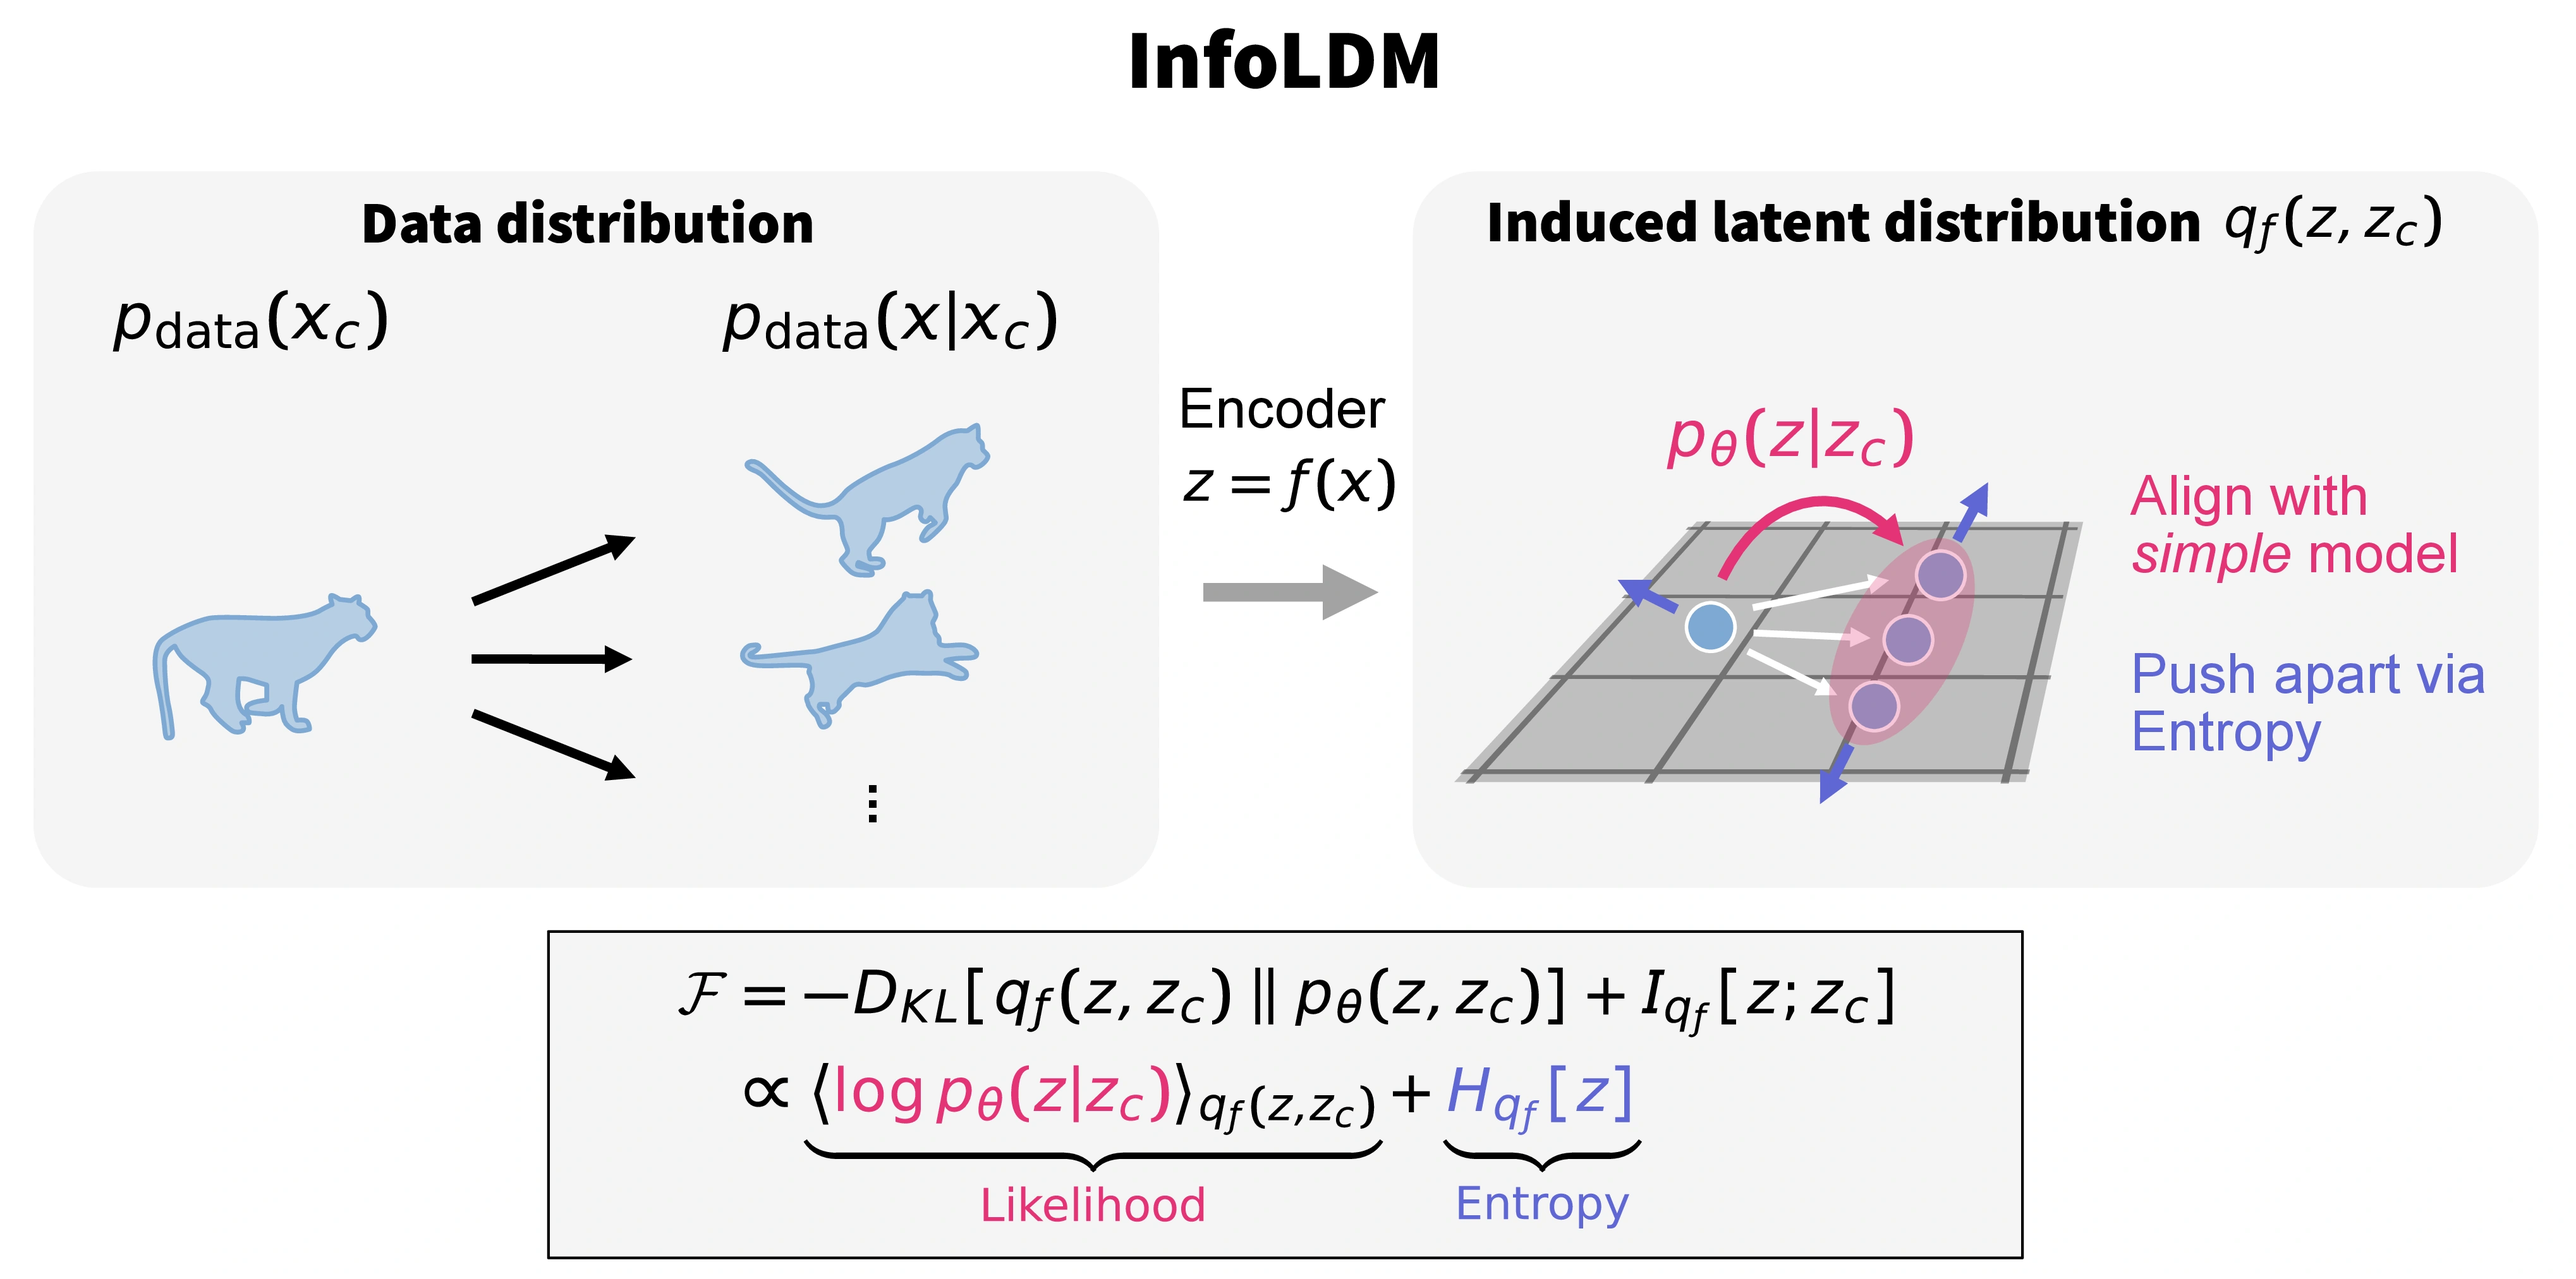
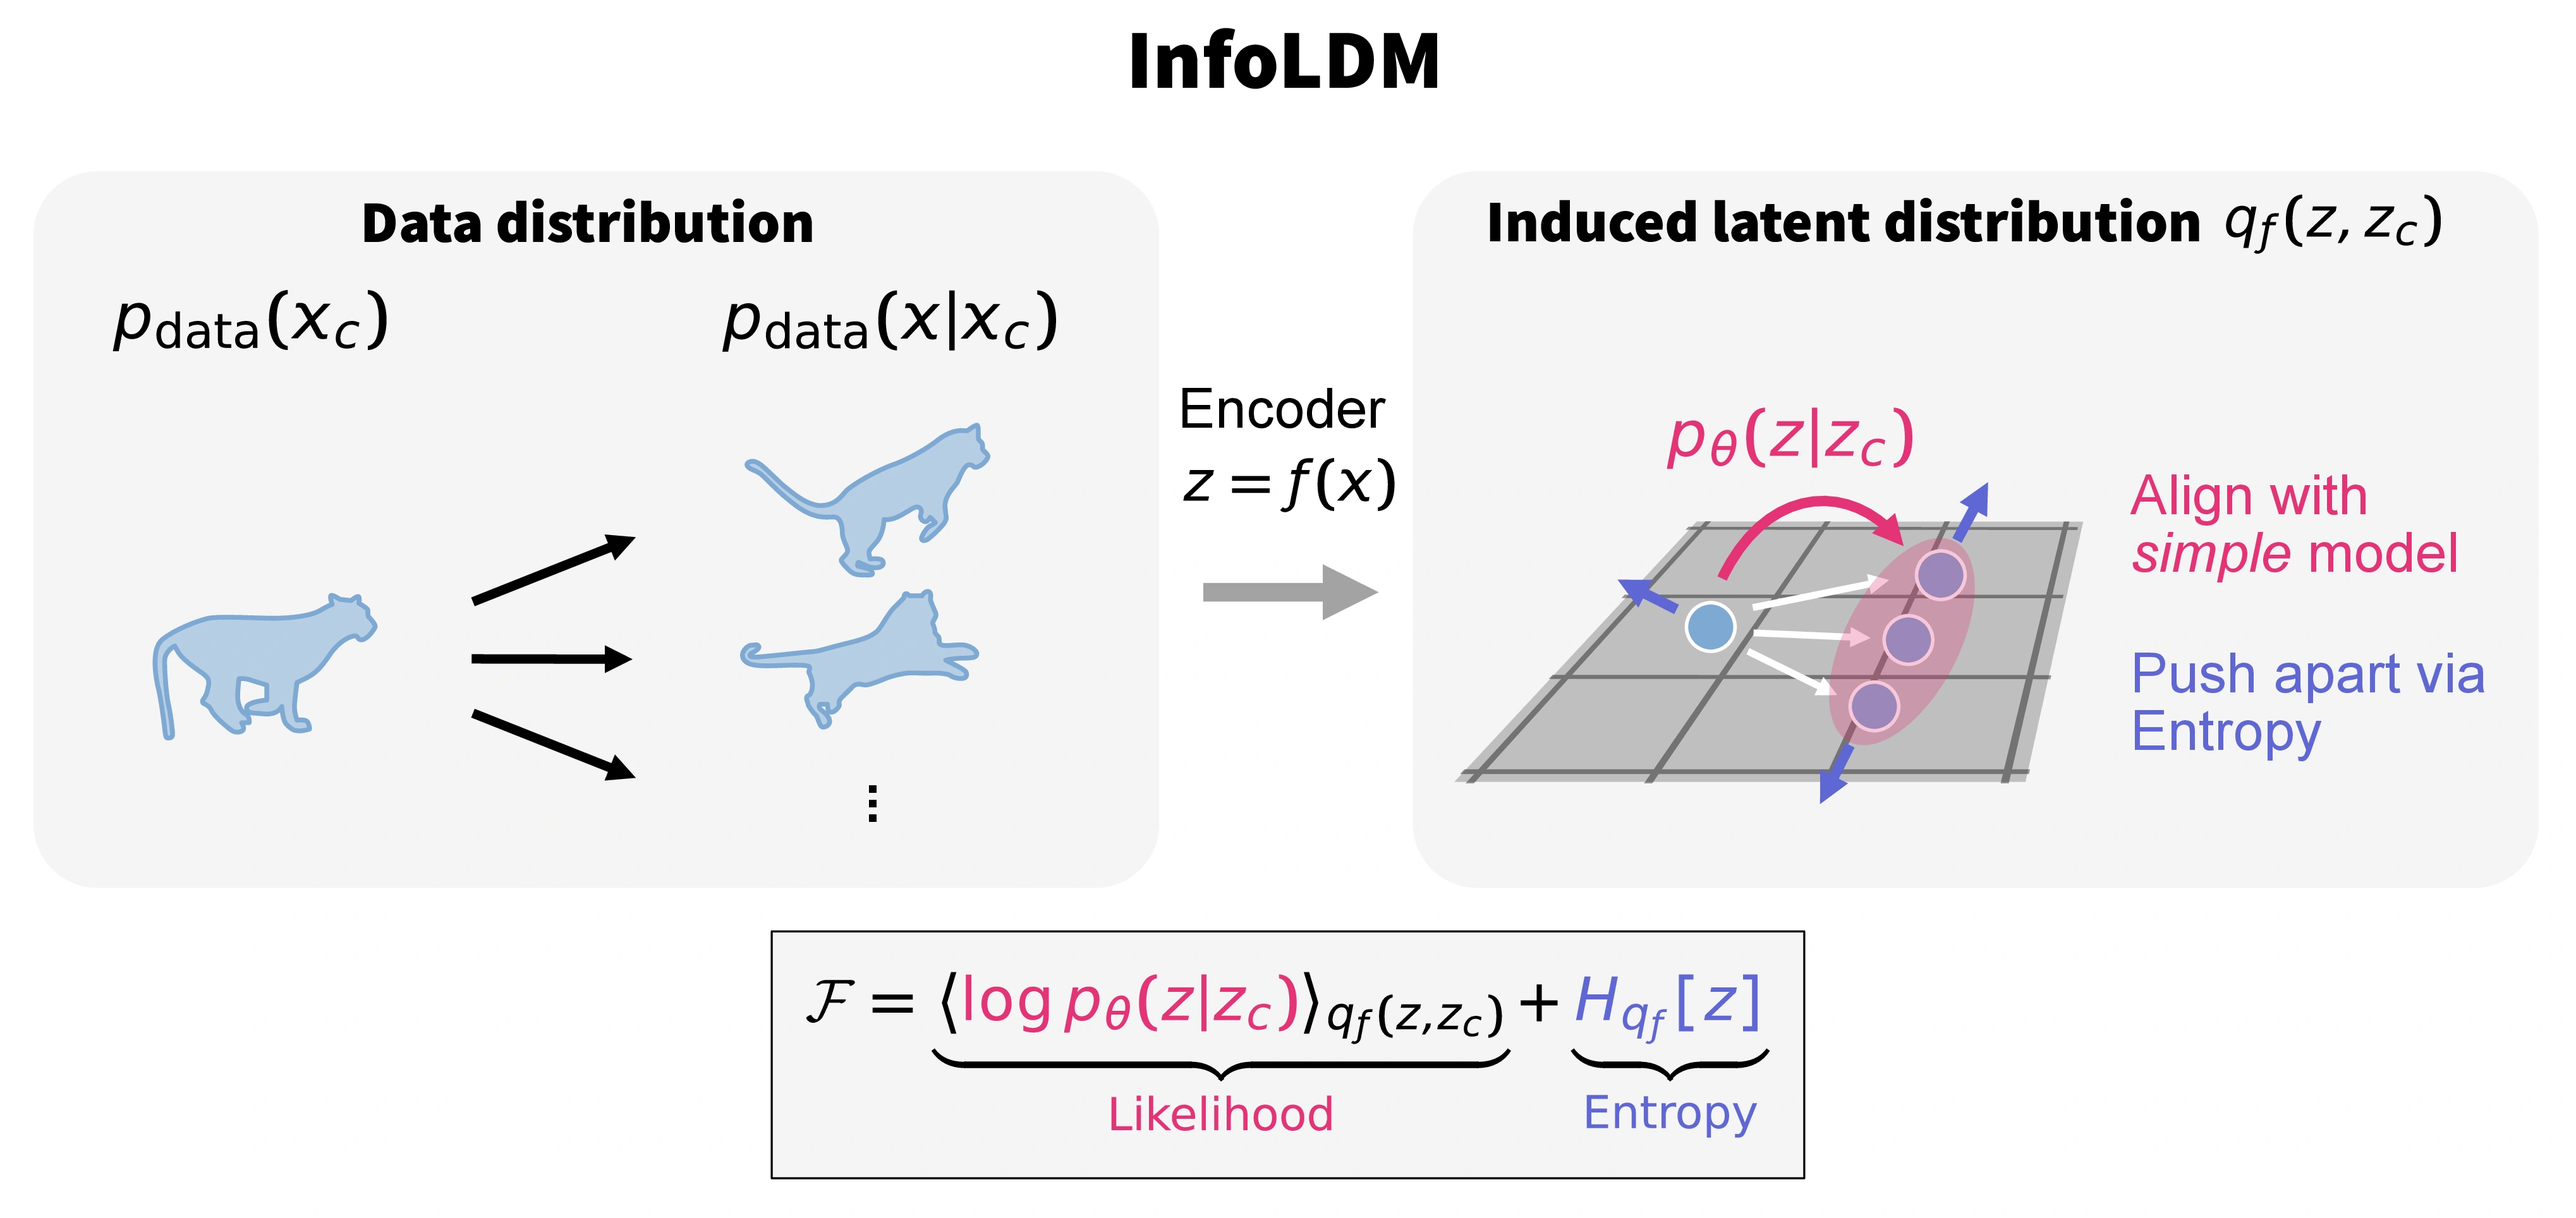
sentence

diff --git a/index.html b/index.html
@@ -140,21 +140,20 @@
             <li>Predictive SSL can identify (i.e., recover up to simple transformations) the <strong>true latent variables of the data</strong>, even if these variables have stochastic, nonlinear dynamics.</li>
             <li>This recovery works even if the data contains <strong>strong, unpredictable nuisance</strong>, which introduces a large amount of prediction-irrelevant information.</li>
           </ol>
-          <p>The framework that allows for these proofs, <strong>InfoLDM</strong>, separates two complementary principles: <strong>predictive mutual information</strong> determines what information is retained, while <strong>latent distribution matching (LMD)</strong> constrains how it is represented. Together, they can identify a stochastically evolving signal even when observations contain private nuisance.</p>
+          <p>The framework that allows for these proofs, <strong>InfoLDM</strong>, is a generalization of existing SSL approaches.</p>
         </div>
         <figure class="paper-figure">
           <img src="static/images/overview.webp" width="2547" height="1116" alt="InfoLDM maps observations with multiple possible futures into latent space, combining a predictive model with representation entropy.">
           <figcaption>InfoLDM maximizes the goal function $\mathcal F$: The likelihood of a predictive model constrains the latent distribution, while entropy keeps representations informative.</figcaption>
         </figure>
-        <h3 class="title is-4">Connection to the JEPA family</h3>
         <div class="content has-text-justified">
           <p>Like joint-embedding predictive architectures (JEPAs), InfoLDM predicts encoded observations without reconstructing the input. In fact, by choosing a specific latent predictive model and entropy estimator we can re-derive popular JEPA approaches:</p>
           <div class="jepa-methods">
             <div class="jepa-method">
-              <div class="method-description"><h4>Gaussian model + logdet entropy →&nbsp;VICReg-style</h4><p>Choosing the latent model $p_\theta$ to be a Gaussian with predictor $\mu$ and estimating entropy through the log-determinant of representation covariance $\Sigma$ connects the objective to variance and covariance regularization.</p></div>
               <details class="formula-derivation">
-              <summary>Equations</summary>
+              <summary>Gaussian model + logdet entropy →&nbsp;VICReg-style</summary>
               <div class="derivation-equations">
+                Choosing the latent model $p_\theta$ to be a Gaussian with predictor $\mu$ and estimating entropy through the log-determinant of representation covariance $\Sigma$ connects the objective to variance and covariance regularization.
               \[
                 p_\theta(z|z_c) = \frac{1}{Z} \exp (- \|z - \mu(z_c)\|^2 )
               \]
@@ -171,10 +170,10 @@
             </details>
             </div>
             <div class="jepa-method">
-              <div class="method-description"><h4>von Mises-Fisher model + KDE entropy →&nbsp;SimCLR-style</h4><p>Kernel density estimation connects the objective to contrastive learning, such as SimCLR.</p></div>
               <details class="formula-derivation">
-              <summary>Equations</summary>
+              <summary>von Mises-Fisher model + KDE entropy →&nbsp;SimCLR-style</summary>
               <div class="derivation-equations">
+                Kernel density estimation connects the objective to contrastive learning, such as SimCLR.
               \[
                 p_\theta(z|z_c) = \frac{1}{Z} \exp ( z^T \mu(z_c) )
               \]
@@ -273,7 +272,7 @@
       </div>
       <figure class="paper-figure">
         <img src="static/images/model.png" width="2278" height="826" loading="lazy" alt="Graphical model showing context, signal, and nuisance generating observations, with encoders mapping observations and context into a predictive latent model.">
-        <figcaption><strong>Generative and learned models.</strong> Observations combine signal and nuisance; encoders map observations and context into representations connected by a predictive latent model.</figcaption>
+        <figcaption><strong>Generative and learned models.</strong> Observations $x$ combine signal and nuisance; encoders map observations and context into representations connected by a predictive latent model.</figcaption>
       </figure>
       <div class="content has-text-justified">
         <p>In summary, $c$, $s$ and $n$ denote true latent context, signal, and nuisance variables; $z = f(x)$ is the encoded observation, and $z_c = f_c(x_c)$ is the encoded context. In the simulations above the context is the history and actions (hopper), or the related image, but it can be any relevant encoded conditioning variable. The encoders induce a joint distribution $q_f(z,z_c)$, while a learned latent model $p_\theta(z|z_c)$ describes that distribution. InfoLDM maximizes:</p>
